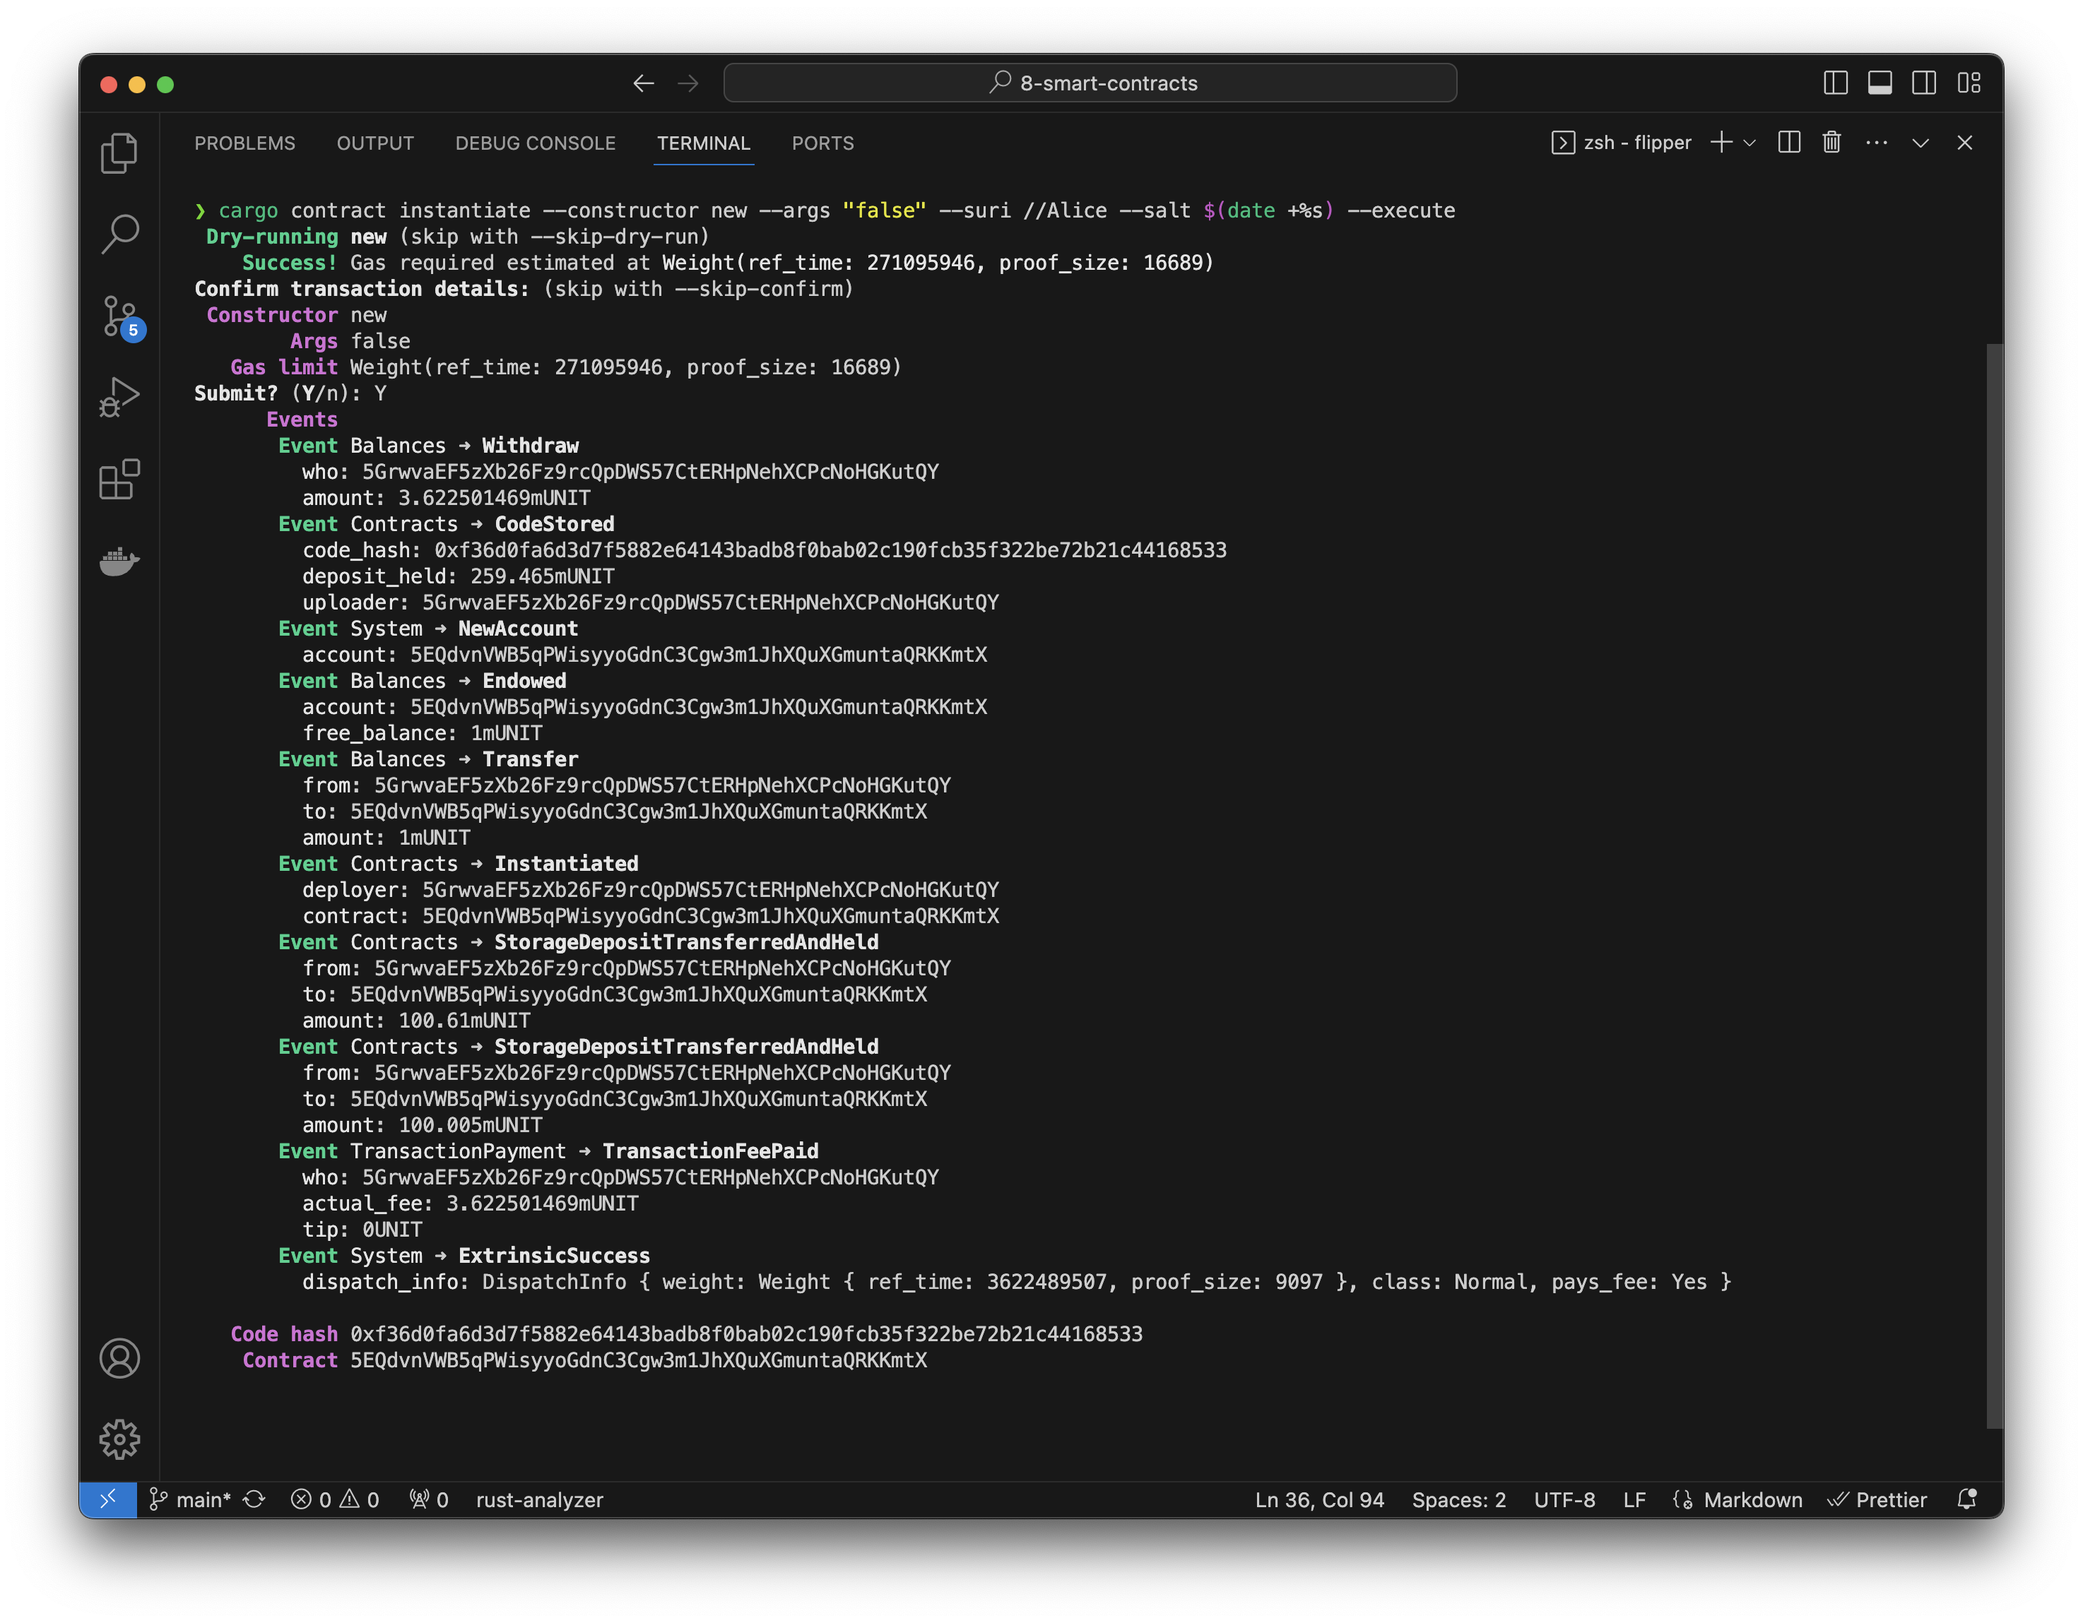
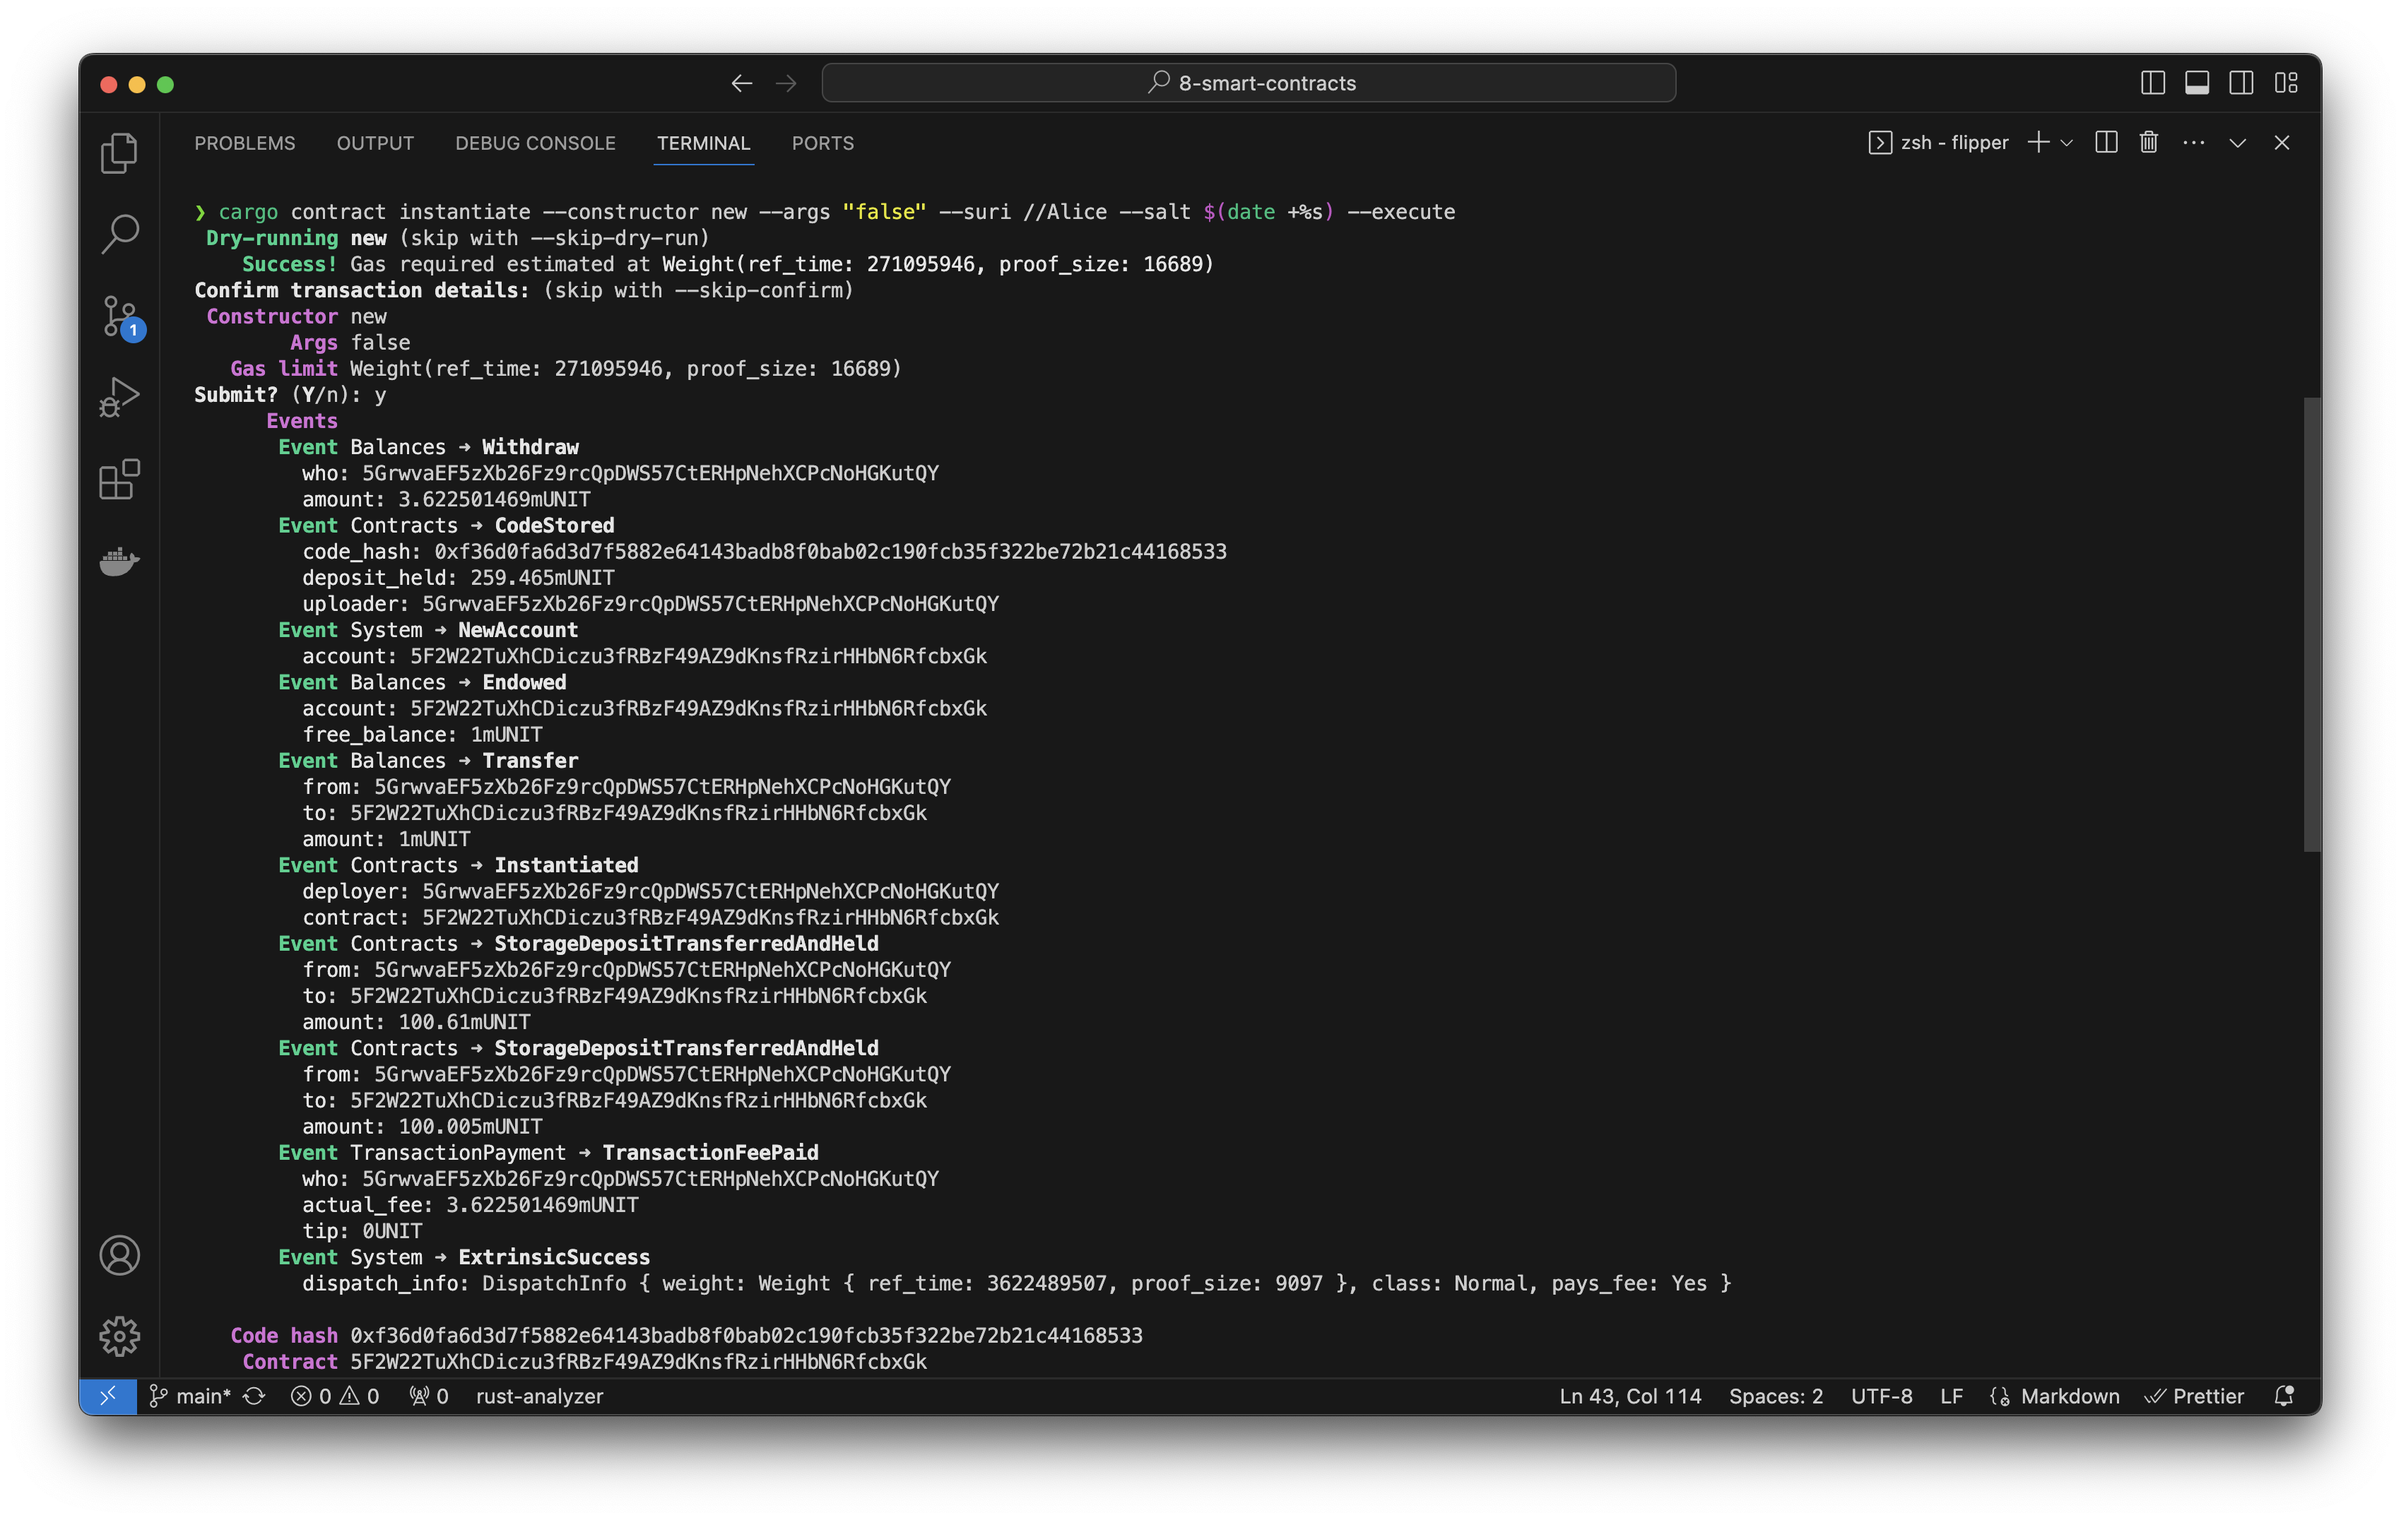
change screenshots pic

diff --git a/8-smart-contracts/README.md b/8-smart-contracts/README.md
@@ -40,9 +40,8 @@ cargo contract instantiate --constructor new --args "false" --suri //Alice --sal
 
 ![Alt text](_screenshots/ss3.png)
 
-From the screenshot above, our instantiated contract address is `5EQdvnVWB5qPWisyyoGdnC3Cgw3m1JhXQuXGmuntaQRKKmtX`
+From the screenshot above, our instantiated contract address is `5F2W22TuXhCDiczu3fRBzF49AZ9dKnsfRzirHHbN6RfcbxGk`
 
 ### Interact with contract
 
 ![Alt text](_screenshots/ss4.png)
-![Alt text](_screenshots/ss5.png)
